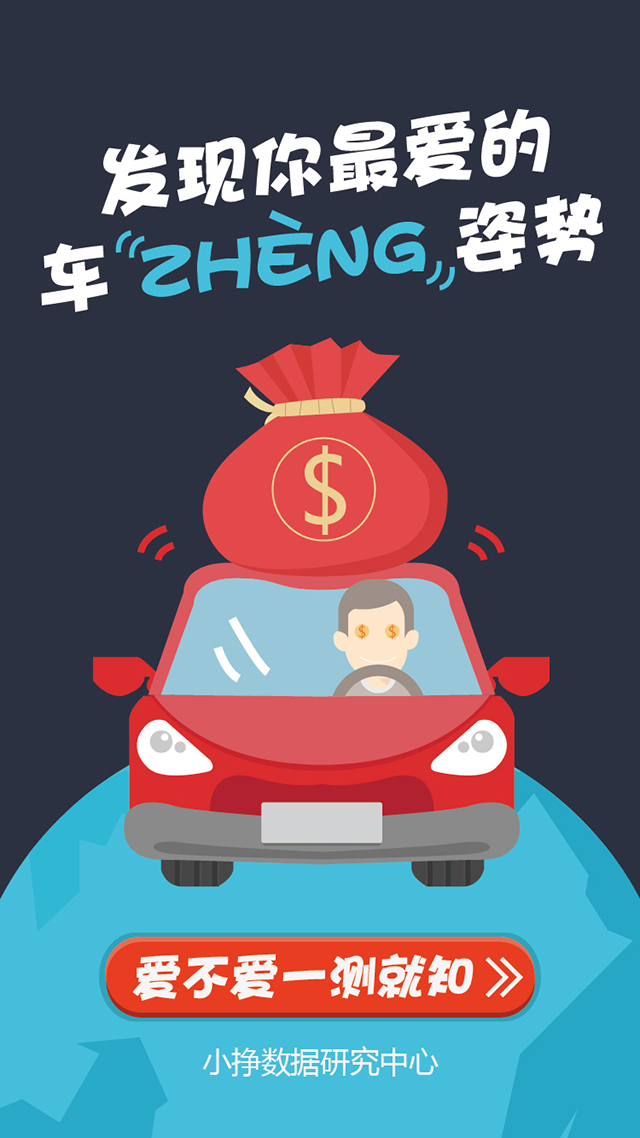
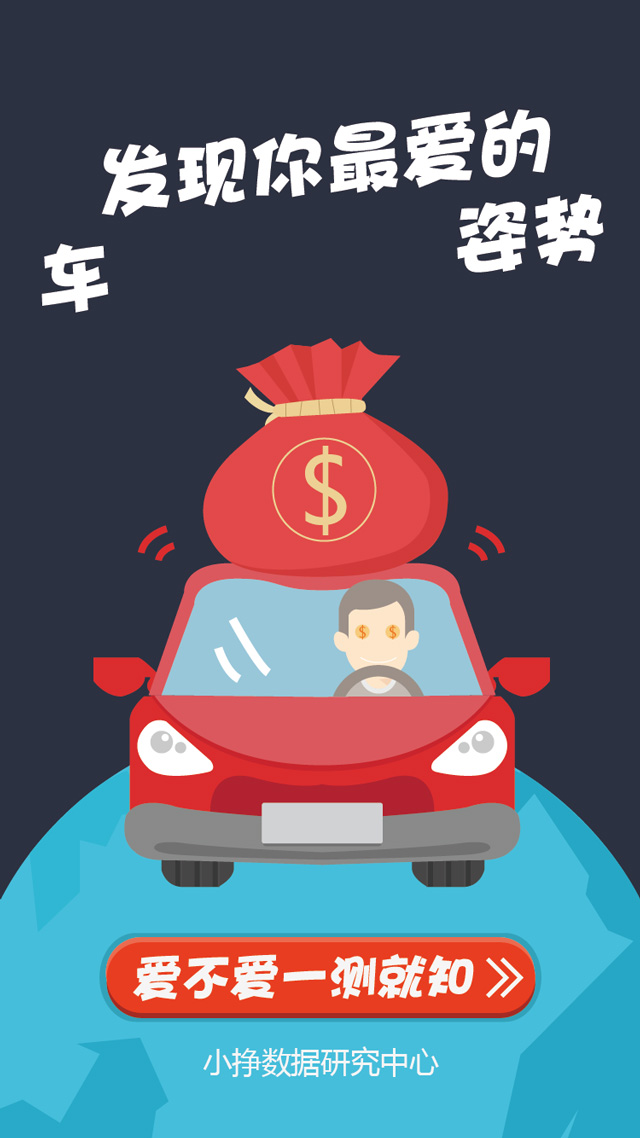
增加动画效果

diff --git a/css/style.less b/css/style.less
@@ -1236,9 +1236,44 @@ html#html body {height: 100%;}
 	}
 }
 
-//车挣数据中心
+//车挣数据中心=================开始====================
+
+	//需要的动画
+	.swing{-webkit-animation:swing 1.3s 0s linear both infinite;}
+		@-webkit-keyframes swing {
+		  25% {
+		    -webkit-transform: rotate3d(0, 0, 1, 7deg);
+		            transform: rotate3d(0, 0, 1, 7deg);
+		  }
+
+		  50% {
+		    -webkit-transform: rotate3d(0, 0, 1, 0deg);
+		            transform: rotate3d(0, 0, 1, 0deg);
+		  }
+
+		  75% {
+		    -webkit-transform: rotate3d(0, 0, 1, -7deg);
+		            transform: rotate3d(0, 0, 1, -7deg);
+		  }
+
+		  100% {
+		    -webkit-transform: rotate3d(0, 0, 1, 0deg);
+		            transform: rotate3d(0, 0, 1, 0deg);
+		  }
+		}
+
 .h5-cons{
 	position: relative;
+	.zheng-tt{
+		background: url(../images/zheng-tit.png) no-repeat;
+		width: 430/2.3*@rem;
+		height: 132/2.3*@rem;
+		background-size: cover;
+		position: absolute;
+		top: 100*@rem;
+		left: 49*@rem;
+		.swing;
+	}
 	.h5-bg{
 		img{width: 100%;}
 	}
@@ -1404,7 +1439,7 @@ html#html body {height: 100%;}
 	}
 
 }
-
+//车震数据中心=================结束================
 
 
 

diff --git a/css/style.css b/css/style.css
@@ -3717,8 +3717,39 @@ html#html body {
   width: 100%;
   color: #fff;
 }
+.swing {
+  -webkit-animation: swing 1.3s 0s linear both infinite;
+}
+@-webkit-keyframes swing {
+  25% {
+    -webkit-transform: rotate3d(0, 0, 1, 7deg);
+    transform: rotate3d(0, 0, 1, 7deg);
+  }
+  50% {
+    -webkit-transform: rotate3d(0, 0, 1, 0deg);
+    transform: rotate3d(0, 0, 1, 0deg);
+  }
+  75% {
+    -webkit-transform: rotate3d(0, 0, 1, -7deg);
+    transform: rotate3d(0, 0, 1, -7deg);
+  }
+  100% {
+    -webkit-transform: rotate3d(0, 0, 1, 0deg);
+    transform: rotate3d(0, 0, 1, 0deg);
+  }
+}
 .h5-cons {
   position: relative;
+}
+.h5-cons .zheng-tt {
+  background: url(../images/zheng-tit.png) no-repeat;
+  width: 9.34782609rem;
+  height: 2.86956522rem;
+  background-size: cover;
+  position: absolute;
+  top: 5rem;
+  left: 2.45rem;
+  -webkit-animation: swing 1.3s 0s linear both infinite;
 }
 .h5-cons .h5-bg img {
   width: 100%;

diff --git a/h5-1.php b/h5-1.php
@@ -10,6 +10,7 @@
             <div class="h5-bg">
                 <img src="images/H5-01.jpg" alt="">
             </div>
+            <div class="zheng-tt"></div>
             <a href="h5-2.php" class="hbtn btn1-1"></a>
         </div>
     <script type="text/javascript" src="js/zepto.js"></script>
